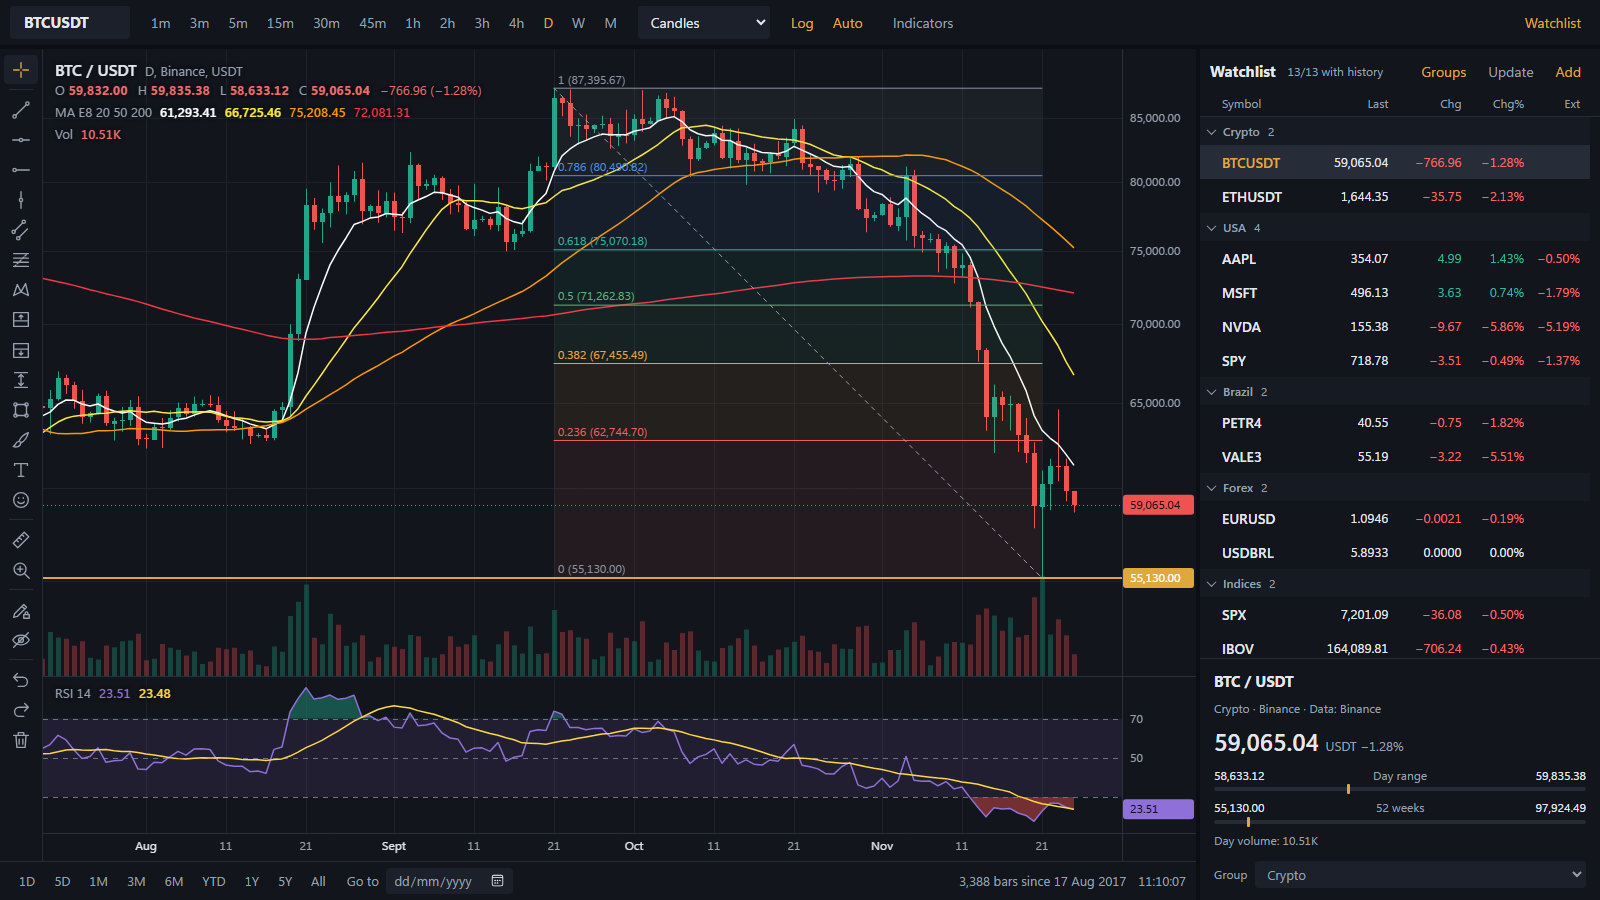
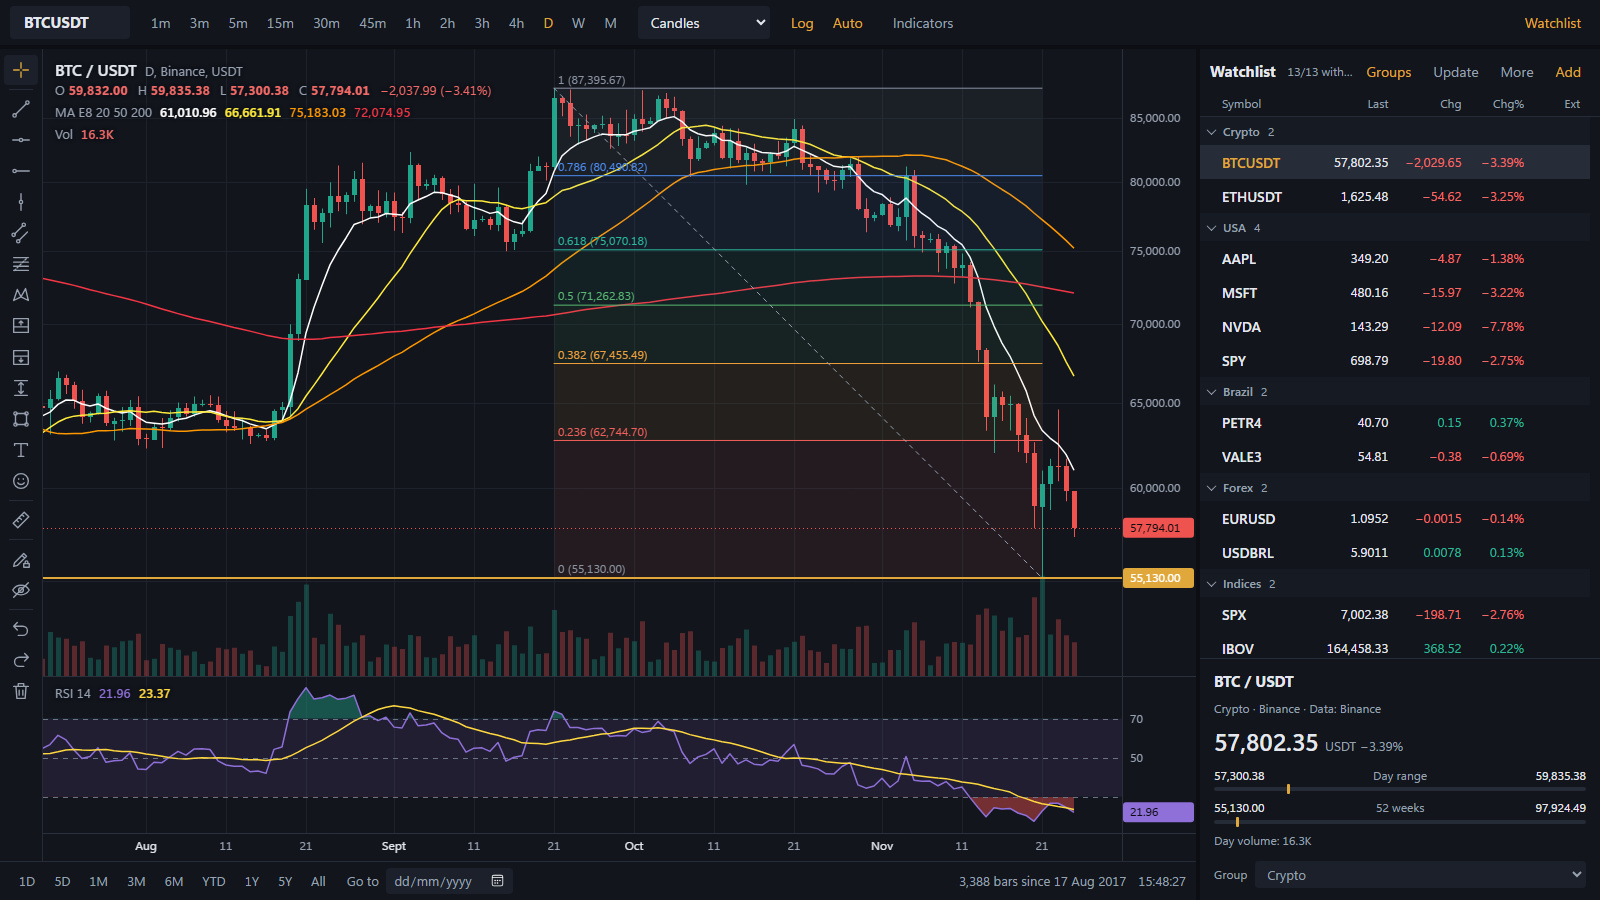
Release 1.2.0: single-column toolbar, without zoom and brush

diff --git a/public/drawings.js b/public/drawings.js
@@ -19,7 +19,7 @@ export const TOOLS = {
   short: { name: 'Short position', n: 1 },
   prange: { name: 'Price range', n: 2 },
   rect: { name: 'Rectangle', n: 2 },
-  brush: { name: 'Brush', n: 0 },
+  brush: { name: 'Brush', n: 0 }, // no longer in the toolbar; kept for drawings made before
   text: { name: 'Text', n: 1 },
   emoji: { name: 'Emoji', n: 1 },
 };
@@ -59,7 +59,7 @@ export class Layer {
   constructor(chart, { save, load, onSelect, onTool, toast }) {
     Object.assign(this, { chart, saveApi: save, loadApi: load, onSelect, onTool, toast });
     this.items = []; this.sel = null; this.tool = null; this.draft = null; this.drag = null;
-    this.measure = null; this.zoomBox = null; this.emoji = '🚀';
+    this.measure = null; this.emoji = '🚀';
     this.opts = { keep: false, hidden: false };
     this.styles = {};
     this.stacks = new Map(); // undo/redo per symbol
@@ -155,7 +155,7 @@ export class Layer {
     if (this.sel === d) return;
     this.sel = d; this.onSelect(d); this.chart.draw();
   }
-  cancel() { this.draft = null; this.zoomBox = null; this.cancelDrag(); this.closeText?.(); if (this.measure?.active) this.measure = null; this.chart.draw(); }
+  cancel() { this.draft = null; this.cancelDrag(); this.closeText?.(); if (this.measure?.active) this.measure = null; this.chart.draw(); }
   cancelDrag() {
     if (this.drag) { Object.assign(this.drag.d, clone(this.drag.before)); this.drag = null; this.chart.draw(); }
     if (this.draft?.tool === 'brush') this.draft = null;
@@ -177,7 +177,6 @@ export class Layer {
   // ---------- mouse ----------
   down(p, e) {
     this.closeText?.();
-    if (this.tool === 'zoom') { this.zoomBox = { x0: p.x, y0: p.y, x1: p.x, y1: p.y }; return true; }
     if (this.measure?.active) { this.measure.b = this.#pt(p); this.measure.active = false; this.measure.at = null; if (this.tool === 'measure') this.setToolKeep(); return true; }
     if (this.tool === 'measure' || (!this.tool && e.shiftKey)) {
       const a = this.#pt(p);
@@ -214,8 +213,7 @@ export class Layer {
   }
 
   move(p, e) {
-    if (this.zoomBox) { this.zoomBox.x1 = p.x; this.zoomBox.y1 = p.y; }
-    else if (this.measure?.active) this.measure.b = this.#pt(p);
+    if (this.measure?.active) this.measure.b = this.#pt(p);
     else if (this.draft?.tool === 'brush') {
       const last = this.lastBrush ?? this.downAt;
       if (Math.hypot(p.x - last.x, p.y - last.y) >= 3 && this.draft.pts.length < 4000) { this.draft.pts.push(this.#pt(p, true)); this.lastBrush = p; }
@@ -226,10 +224,7 @@ export class Layer {
   }
 
   up(p, e) {
-    if (this.zoomBox) {
-      const z = this.zoomBox; this.zoomBox = null;
-      if (Math.abs(z.x1 - z.x0) > 8 && Math.abs(z.y1 - z.y0) > 8) { this.chart.zoomTo(z.x0, z.x1, z.y0, z.y1); this.setTool(null); }
-    } else if (this.measure?.active) {
+    if (this.measure?.active) {
       const at = this.measure.at;
       if (Math.hypot(p.x - at.x, p.y - at.y) > 6) { this.measure.active = false; if (this.tool === 'measure') this.setToolKeep(); }
     } else if (this.draft) {
@@ -281,7 +276,6 @@ export class Layer {
     if (d?.tool === 'text' && !d.locked) this.editText(d);
   }
   cursor(p) {
-    if (this.tool === 'zoom') return 'zoom-in';
     if (this.tool || this.measure?.active) return 'crosshair';
     if (this.drag) return this.drag.h ? 'default' : 'move';
     if (this.opts.hidden) return null;
@@ -371,11 +365,6 @@ export class Layer {
       if (b && (this.sel.tool === 'text' || this.sel.tool === 'emoji')) { ctx.strokeStyle = ACCENT; ctx.lineWidth = 1; ctx.strokeRect(b.x - 4, b.y - 4, b.w + 8, b.h + 8); }
     }
     if (this.measure) this.#drawMeasure(ctx);
-    if (this.zoomBox) {
-      const z = this.zoomBox, b = box({ x: z.x0, y: z.y0 }, { x: z.x1, y: z.y1 });
-      ctx.fillStyle = ACCENT + '22'; ctx.strokeStyle = ACCENT; ctx.lineWidth = 1;
-      ctx.fillRect(b.x, b.y, b.w, b.h); ctx.strokeRect(b.x, b.y, b.w, b.h);
-    }
     ctx.setLineDash([]); ctx.textBaseline = 'alphabetic';
   }
 

diff --git a/public/tools.js b/public/tools.js
@@ -16,11 +16,9 @@ const ICONS = {
   short: '<path d="M4 20h16v-9H4zM4 11V5h16v6"/><path d="M12 13v4.500M10 15.500l2 2 2-2"/>',
   prange: '<path d="M5 4h14M5 20h14M12 6v12M9.500 8.500 12 6l2.500 2.500M9.500 15.500 12 18l2.500-2.500"/>',
   rect: `<path d="M7 6h10M18 7v10M17 18H7M6 17V7"/>${dot(6, 6)}${dot(18, 6)}${dot(6, 18)}${dot(18, 18)}`,
-  brush: '<path d="M20 4c-5 2-8.500 5.500-10 9l2 2c3.500-1.500 6.500-5 8-11zM9.500 13.500C6 13.500 6.500 18 3.500 19c3 1.500 8 .5 8-3.500"/>',
   text: '<path d="M5 7V5h14v2M12 5v14M9 19h6"/>',
   emoji: '<circle cx="12" cy="12" r="8"/><path d="M8.500 14c1.500 2.500 5.500 2.500 7 0M9.500 9.500v.6M14.500 9.500v.6"/>',
   measure: '<path d="m3.500 15.500 12-12 5 5-12 12zM7 12l2 2M10 9l2.500 2.500M13 6l2 2"/>',
-  zoom: '<circle cx="11" cy="11" r="6.500"/><path d="m16 16 5 5M11 8v6M8 11h6"/>',
   keep: '<path d="m4 20 1-4L15 6l3 3L8 19zM13 8l3 3"/><path d="M15 17h6v4h-6zM16.500 17v-1.500a1.500 1.500 0 0 1 3 0V17"/>',
   hidden: '<path d="M3 12c4-7 14-7 18 0-4 7-14 7-18 0z"/><circle cx="12" cy="12" r="2.600"/><path d="M4 20 20 4"/>',
   undo: '<path d="M8 5 4 9l4 4M4 9h10a5 5 0 0 1 0 10H9"/>',
@@ -66,9 +64,8 @@ export function mountTools({ layer, nav, bar, host, toast, persist }) {
   });
   nav.append(
     btn('cursor', 'Cursor (Esc)', () => layer.setTool(null)), gap(),
-    ...['trend', 'hline', 'hray', 'vline', 'channel', 'fib', 'xabcd', 'long', 'short', 'prange', 'rect', 'brush', 'text', 'emoji'].map(tool), gap(),
-    btn('measure', 'Measure (or Shift + drag)', () => layer.setTool(layer.tool === 'measure' ? null : 'measure')),
-    btn('zoom', 'Zoom into an area', () => layer.setTool(layer.tool === 'zoom' ? null : 'zoom')), gap(),
+    ...['trend', 'hline', 'hray', 'vline', 'channel', 'fib', 'xabcd', 'long', 'short', 'prange', 'rect', 'text', 'emoji'].map(tool), gap(),
+    btn('measure', 'Measure (or Shift + drag)', () => layer.setTool(layer.tool === 'measure' ? null : 'measure')), gap(),
     toggle('keep', 'Keep drawing with the same tool'),
     toggle('hidden', 'Hide all drawings'), gap(),
     btn('undo', 'Undo (Ctrl+Z)', () => layer.undo()),
@@ -85,7 +82,7 @@ export function mountTools({ layer, nav, bar, host, toast, persist }) {
     const t = layer.tool ?? 'cursor';
     for (const [k, b] of Object.entries(buttons)) {
       if (k in opts) b.setAttribute('aria-pressed', opts[k]);
-      else if (k in TOOLS || ['cursor', 'measure', 'zoom'].includes(k)) b.setAttribute('aria-pressed', k === t);
+      else if (k in TOOLS || ['cursor', 'measure'].includes(k)) b.setAttribute('aria-pressed', k === t);
     }
   }
 

diff --git a/public/style.css b/public/style.css
@@ -101,9 +101,9 @@ dialog::backdrop { background: #000a; }
 #toast.show { opacity: 1; }
 
 #tools { display: flex; flex-direction: column; align-items: center; gap: 1px; padding: 6px 4px; border-right: 1px solid var(--line); overflow-y: auto; scrollbar-width: none; flex: none; }
-#tools button { padding: 3px; width: 34px; height: 29px; flex: none; display: grid; place-items: center; }
+#tools button { padding: 0; width: 34px; flex: 0 1 30px; min-height: 22px; display: grid; place-items: center; }
 #tools button[aria-pressed="true"] { background: var(--raise); }
-#tools hr { width: 24px; border: 0; border-top: 1px solid var(--line); margin: 4px 0; flex: none; }
+#tools hr { width: 24px; border: 0; border-top: 1px solid var(--line); margin: 3px 0; flex: none; }
 .ind { display: flex; align-items: center; gap: 8px; font-size: 13px; min-height: 22px; width: fit-content; pointer-events: auto; }
 .ind.off .indname, .ind.off .indval { opacity: .45; }
 .indname { color: var(--muted); } .indval { font-weight: 600; }
@@ -142,7 +142,6 @@ input[type="checkbox"] { accent-color: var(--accent); width: 16px; height: 16px;
 .indfoot { display: flex; justify-content: space-between; border-top: 1px solid var(--line); padding-top: 12px; }
 .primary { background: var(--accent); color: #17120a; font-weight: 600; }
 .primary:hover { background: #eebb55; color: #17120a; }
-@media (max-height: 820px) { #tools { display: grid; grid-template-columns: 34px 34px; align-content: start; justify-items: center; } #tools hr { grid-column: 1 / -1; width: 100%; } }
 
 .phone, #tabs { display: none; }
 .cloud #syncBtn { display: none; }
@@ -197,7 +196,7 @@ input[type="checkbox"] { accent-color: var(--accent); width: 16px; height: 16px;
   .canvas { min-height: 0; }
   #tools { display: none; }
   body.drawing #tools { display: flex; flex-direction: row; overflow-x: auto; border-right: 0; border-top: 1px solid var(--line); padding: 4px 6px; }
-  #tools button { width: 44px; height: 42px; }
+  #tools button { width: 44px; height: 42px; flex: none; }
   #tools hr { width: 0; height: 24px; border-top: 0; border-left: 1px solid var(--line); margin: 0 4px; align-self: center; }
   footer { padding: 4px 6px; scrollbar-width: none; }
   footer button { padding: 9px 12px; }

diff --git a/public/chart.js b/public/chart.js
@@ -127,16 +127,6 @@ export class Chart {
     this.setAuto(true);
     return t >= this.rows[0].t - 7 * 86400;
   }
-  // Fits a screen rectangle (zoom tool).
-  zoomTo(x0, x1, y0, y1) {
-    const i0 = this.idx(Math.min(x0, x1)), i1 = this.idx(Math.max(x0, x1));
-    const v = y => this.f(this.price(y));
-    const top = v(Math.min(y0, y1)), bottom = v(Math.max(y0, y1));
-    this.barW = this.#clampBar(this.plotW / Math.max(i1 - i0, 2));
-    this.right = i1;
-    this.y0 = bottom; this.y1 = top;
-    this.setAuto(false);
-  }
   #clampBar(w) { return Math.min(80, Math.max(0.15, w)); }
   #clampRight() {
     const span = this.plotW / this.barW, n = this.rows.length;

diff --git a/launcher/Setup.cs b/launcher/Setup.cs
@@ -14,11 +14,11 @@ using Microsoft.Win32;
 
 [assembly: AssemblyTitle("Charts Setup")]
 [assembly: AssemblyProduct("Charts")]
-[assembly: AssemblyVersion("1.1.0.0")]
+[assembly: AssemblyVersion("1.2.0.0")]
 
 static class Setup
 {
-    const string Version = "1.1";
+    const string Version = "1.2";
     const string PingUrl = "http://127.0.0.1:5180/api/ping";
     static bool quiet, noDesktop;
     static string dir, shortcutsDir, regKey = @"Software\Microsoft\Windows\CurrentVersion\Uninstall\Charts";

diff --git a/launcher/Launcher.cs b/launcher/Launcher.cs
@@ -13,7 +13,7 @@ using Microsoft.Win32;
 
 [assembly: AssemblyTitle("Charts")]
 [assembly: AssemblyProduct("Charts")]
-[assembly: AssemblyVersion("1.1.0.0")]
+[assembly: AssemblyVersion("1.2.0.0")]
 
 static class Launcher
 {

diff --git a/README.md b/README.md
@@ -20,7 +20,7 @@ Local-first charting for stocks, ETFs, indices, forex, futures and crypto on Win
 - **13 timeframes**, from 1 minute to 1 month, plus one-click ranges from 1 day to all history.
 - **6 chart types:** candles, hollow candles, bars, line, area and Heikin Ashi. Log or linear scale.
 - **Indicators:** four configurable moving averages (EMA 8, SMA 20, 50 and 200 by default), RSI 14 with its average, and volume.
-- **Drawings** saved per symbol: trend line, horizontal and vertical lines, horizontal ray, parallel channel, Fibonacci retracement, XABCD, long and short positions with risk/reward, price range, rectangle, brush, text and emoji. Undo and redo included.
+- **Drawings** saved per symbol: trend line, horizontal and vertical lines, horizontal ray, parallel channel, Fibonacci retracement, XABCD, long and short positions with risk/reward, price range, rectangle, text and emoji. Undo and redo included.
 - **Works offline** with everything already downloaded.
 - **On the iPhone and the web**, if you publish your own private site. See the [web guide](docs/web.md).
 
